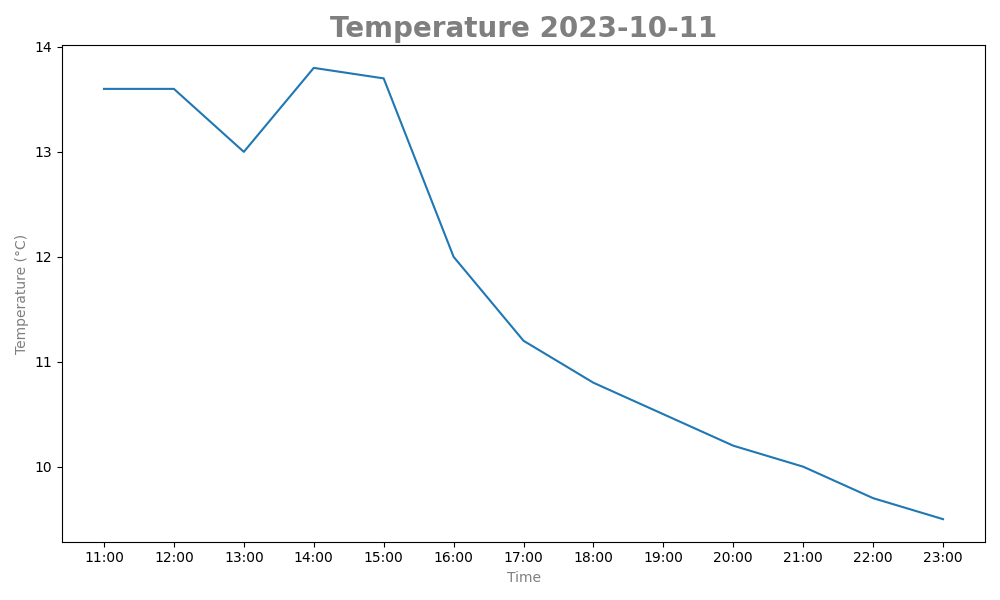
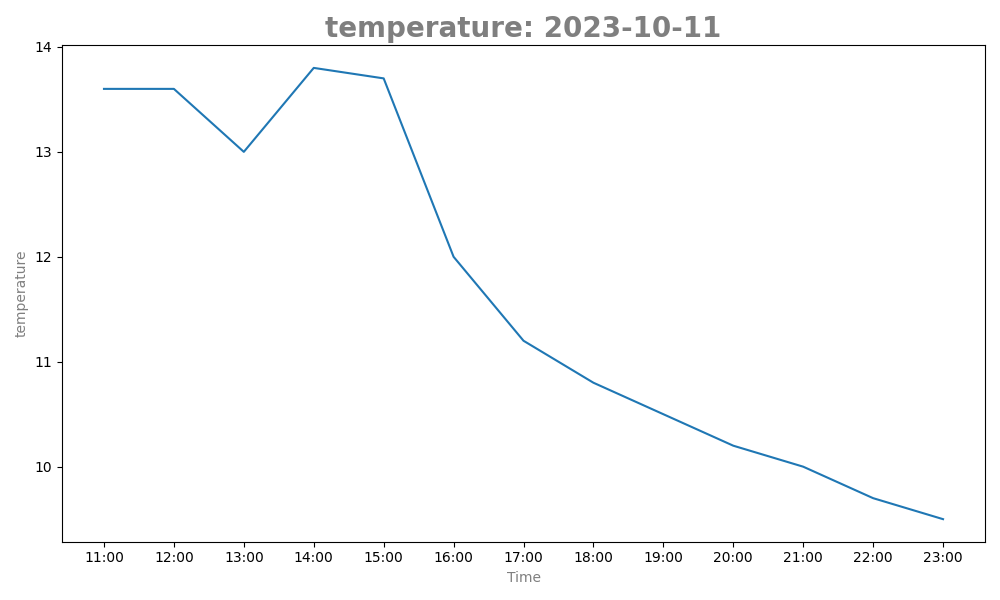
bug fixes 1.3

Changed region(s): [[0.31, 0.03, 0.713, 0.09], [0.0, 0.39, 0.031, 0.6]]

diff --git a/main/etl_weather_dag.py b/main/etl_weather_dag.py
@@ -93,7 +93,7 @@ def _clean_data(input_json_file, output_json_file):
         filtered_df.to_json(output_json_file, orient='records', indent=4)
 
 
-def _plot_data(input_json_path, output_path):
+def _plot_data(input_json_path, value, output_path):
     
     df = pd.read_json(input_json_path)
     date_object = datetime.now().date()
@@ -103,12 +103,12 @@ def _plot_data(input_json_path, output_path):
     plt.figure(figsize=(10, 6))  # Set the figure size (width, height)
 
     # Plot temperature data
-    plt.plot(df['validTime'], df['temperature'], color= 'tab:blue')
+    plt.plot(df['validTime'], df[value], color= 'tab:blue')
 
     # Set labels and title
     plt.xlabel('Time', color = 'tab:gray', fontsize=10 )
-    plt.ylabel('Temperature (°C)',  color = 'tab:gray', fontsize=10)
-    plt.title(f'Temperature: {specific_date}', fontsize = 20 , color = 'tab:gray' , weight="bold")
+    plt.ylabel(f'{value}',  color = 'tab:gray', fontsize=10)
+    plt.title(f'{value.capitalize()}: {specific_date}', fontsize = 20 , color = 'tab:gray' , weight="bold")
     # Save the graph as an image
     plt.tight_layout()
     plt.savefig(output_path)
@@ -146,13 +146,13 @@ with DAG("etl_project_dag1.3", start_date=datetime(2023, 10, 10),
         plot_temperature = PythonOperator(
             task_id='plot_temperature_data',
             python_callable=_plot_data,
-            op_args=['./etl_data/cleaned_temperature_data.json', './etl_data/plot_temperature.png']
+            op_args=['./etl_data/cleaned_temperature_data.json','temperature', './etl_data/plot_temperature.png']
         )
 
         plot_humidity = PythonOperator(
             task_id='plot_humidity_data',
             python_callable=_plot_data,
-            op_args=['./etl_data/cleaned_humidity_data.json', './etl_data/plot_humidity_data.png']
+            op_args=['./etl_data/cleaned_humidity_data.json','humidity', './etl_data/plot_humidity_data.png']
         )
 
 

diff --git a/main/graph_temp.py b/main/graph_temp.py
@@ -1,27 +1,38 @@
 import pandas as pd
 import json
 import matplotlib.pyplot as plt
-import datetime
+from datetime import datetime
 
-def plot_data(input_json_file, output_file):
+def plot_data(input_json_path, value, output_path):
     
-    df = pd.read_json(input_json_file)
+    df = pd.read_json(input_json_path)
+    date_object = datetime.now().date()
+    specific_date = date_object.strftime("%Y-%m-%d") 
+
+    # Filter the DataFrame for a specific date (e.g., '2023-10-11')
+    
+    filtered_df = df[df['validDate'] == specific_date]
+
+
     # Create a line graph for temperature
     plt.figure(figsize=(10, 6))  # Set the figure size (width, height)
 
     # Plot temperature data
-    plt.plot(df['validTime'], df['temperature'], color= 'tab:blue')
+    plt.plot(filtered_df['validTime'], filtered_df[value], color= 'tab:blue')
 
     # Set labels and title
-    plt.xlabel('Time', color = 'tab:gray', fontsize=10)
-    plt.ylabel('Temperature (°C)',  color = 'tab:gray', fontsize=10)
-    plt.title(f'Temperature {df['validDate'][0]}', fontsize = 20 , color = 'tab:gray' , weight="bold")
-
-    # Show the graph
+    plt.xlabel('Time', color = 'tab:gray', fontsize=10 )
+    plt.ylabel(f'{value}',  color = 'tab:gray', fontsize=10)
+    plt.title(f'{value}: {specific_date}', fontsize = 20 , color = 'tab:gray' , weight="bold")
+    # Save the graph as an image
+    # save_path = './etl_data/temperature_graph.png'
     plt.tight_layout()
-    plt.savefig(output_file)
+    plt.savefig(output_path)
 
 
 read_path = './etl_data/cleaned_temperature_data.json'
 save_path = './etl_data/temperature_graph.png'
-plot_data(read_path,save_path)
+plot_data(read_path, 'temperature', save_path)
+read_path2 = './etl_data/cleaned_humidity_data.json'
+save_path2 = './etl_data/humidity_graph.png'
+plot_data(read_path2, 'humidity', save_path2)
